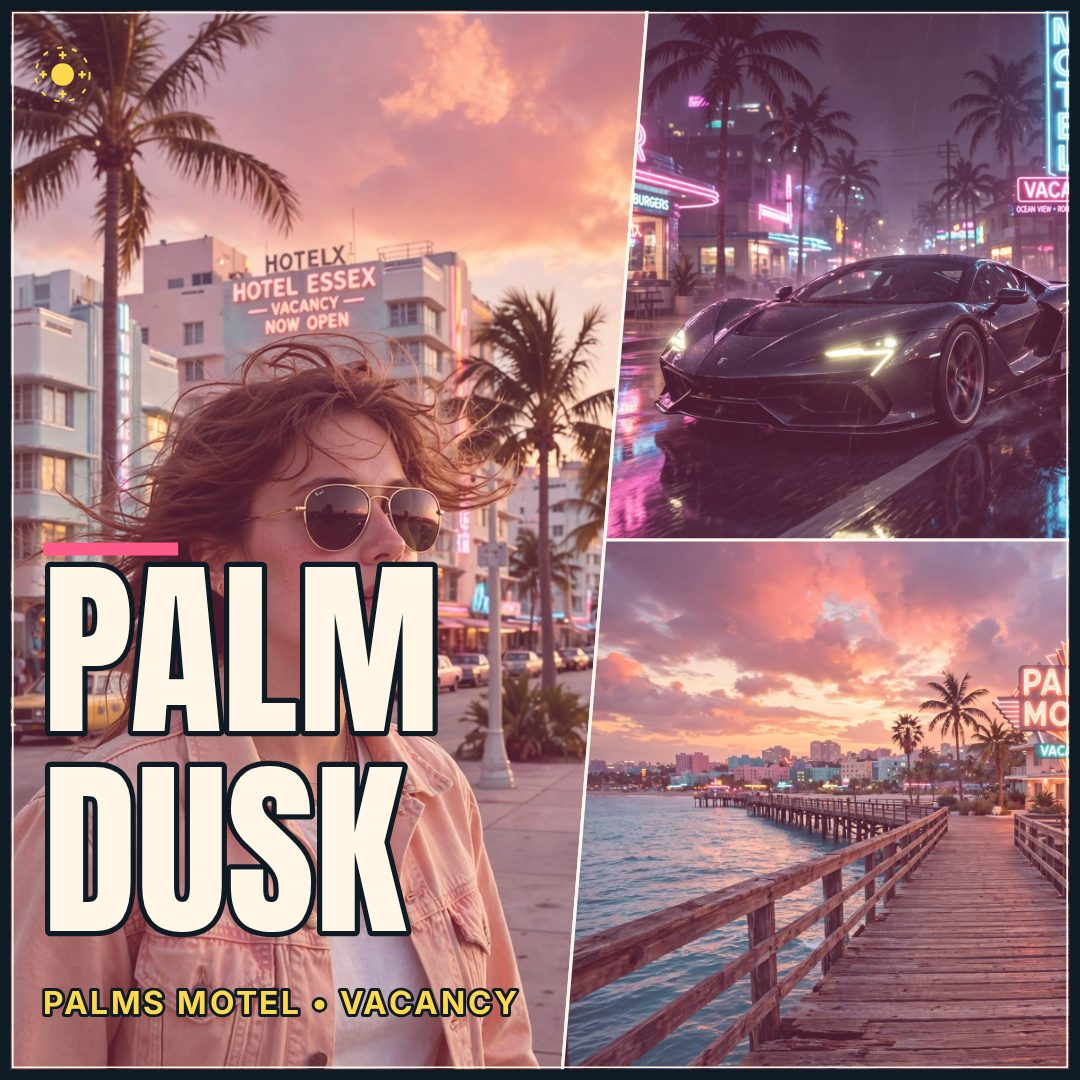
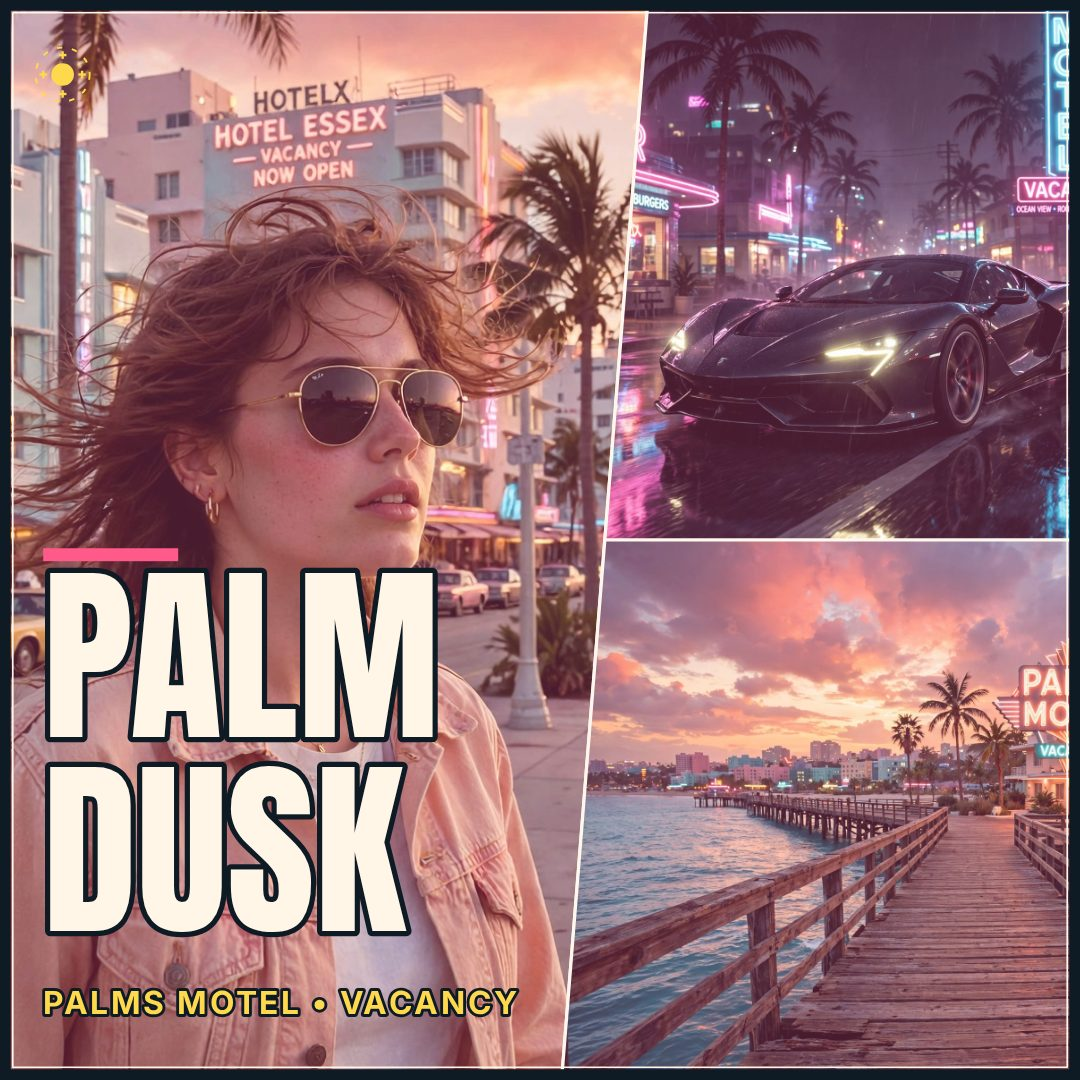
Sunset Press v8 iter 4-5: fix critic FAILs (navy topbar, LAYOUT 3+1, hero face clear)
- Topbar navy + orange sun mark (golden); rail 220px; LAYOUT 3-col grid
- Caption lineH 1.05 -> 1.02 (first line -5px to golden)
- Boulevard hero: zoom 1.2 + focal y 0.60 (focal-y alone is a no-op:
  hero dh == bh so dy clamps to 0; zoom creates the vertical slack)
- Boulevard photo restored from image-tool snapshot (first framing)
- Probe 14/14, 4 screenshots legal, badge 3-run all sizes

diff --git a/app/style.css b/app/style.css
@@ -52,7 +52,7 @@ button { font-family: inherit; cursor: pointer; }
   display: flex;
   align-items: center;
   justify-content: space-between;
-  background: var(--paper);
+  background: var(--panel-dark);
   border-bottom: 2px solid var(--ink);
   padding: 10px 18px;
   flex: none;
@@ -60,16 +60,16 @@ button { font-family: inherit; cursor: pointer; }
 .brand { display: flex; align-items: center; gap: 12px; }
 .brand-mark {
   width: 40px; height: 40px; flex: none;
-  background: var(--sun); color: var(--ink);
-  border: 2px solid var(--ink); border-radius: 50%;
+  background: transparent; color: var(--orange);
+  border: none; border-radius: 50%;
   display: flex; align-items: center; justify-content: center;
-  font-size: 22px;
+  font-size: 32px;
 }
 .brand-text { display: flex; flex-direction: column; line-height: 1.15; }
-.brand-text strong { font-family: 'Anton', sans-serif; font-size: 22px; letter-spacing: 0.04em; }
-.brand-sub { font-size: 13px; color: var(--muted); }
+.brand-text strong { font-family: 'Anton', sans-serif; font-size: 22px; letter-spacing: 0.04em; color: var(--paper); }
+.brand-sub { font-size: 13px; color: rgba(255, 246, 232, 0.65); }
 .topbar-right { display: flex; align-items: center; }
-.size-label { font-size: 13px; color: var(--muted); margin-right: 95px; white-space: nowrap; }
+.size-label { font-size: 13px; color: rgba(255, 246, 232, 0.65); margin-right: 95px; white-space: nowrap; }
 .btn-export {
   background: var(--orange); color: #fff;
   border: 2px solid var(--ink); border-radius: 8px;
@@ -84,7 +84,7 @@ button { font-family: inherit; cursor: pointer; }
 .workspace {
   flex: 1;
   display: grid;
-  grid-template-columns: 240px minmax(0, 1fr) 320px;
+  grid-template-columns: 220px minmax(0, 1fr) 320px;
   gap: 0;
   min-height: 0;
 }
@@ -173,6 +173,9 @@ button { font-family: inherit; cursor: pointer; }
 .sample-card.active { border-color: var(--orange); box-shadow: 0 0 0 1px var(--orange); }
 
 .chip-grid { display: grid; grid-template-columns: 1fr 1fr; gap: 8px; }
+.chip-grid-3 { grid-template-columns: repeat(3, 1fr); }
+.chip-grid-3 .chip { font-size: 11.5px; padding: 10px 4px; }
+.chip-grid-3 .chip.half { grid-column: auto; }
 .chip {
   background: #fff; border: 2px solid var(--border); border-radius: 8px;
   padding: 10px 8px; font-size: 12.5px; font-weight: 700; min-height: 44px;

diff --git a/app/src/presets.js b/app/src/presets.js
@@ -68,7 +68,7 @@ export const LAYOUTS = {
 // Sample photos: one Vice City sunset world, four moments.
 // focal is the point the cover-fit keeps centred (0..1 of the photo).
 export const SAMPLES = [
-  { id: 'boulevard', label: 'Boulevard', src: 'samples/boulevard.jpg', focal: { x: 0.5, y: 0.35 }, zoom: 1.0 },
+  { id: 'boulevard', label: 'Boulevard', src: 'samples/boulevard.jpg', focal: { x: 0.5, y: 0.60 }, zoom: 1.2 },
   { id: 'nightdrive', label: 'Night Drive', src: 'samples/nightdrive.jpg', focal: { x: 0.48, y: 0.5 }, zoom: 1.06 },
   { id: 'pier', label: 'Pier', src: 'samples/pier.jpg', focal: { x: 0.0, y: 0.424 }, zoom: 1.06 },
   { id: 'street', label: 'Street', src: 'samples/street.jpg', focal: { x: 0.5, y: 0.5 }, zoom: 1.0 },

diff --git a/app/index.html b/app/index.html
@@ -77,7 +77,7 @@
       </div>
       <div class="section">
         <h3>Layout</h3>
-        <div class="chip-grid">
+        <div class="chip-grid chip-grid-3">
           <button class="chip" data-layout="trio" type="button">Sunset Trio</button>
           <button class="chip" data-layout="duo" type="button">Split Duo</button>
           <button class="chip" data-layout="strip" type="button">Hero Strip</button>

diff --git a/app/src/render.js b/app/src/render.js
@@ -128,7 +128,7 @@ function drawCaptionBlock(ctx, W, H, size, state, debug) {
   const x = CAPTION.captionX * W;
 
   const fit = fitCaption(ctx, state.caption || 'SUNSET DRIVE', nominal, maxW);
-  const lineH = fit.size * 1.05;
+  const lineH = fit.size * 1.02;
   const lastBaseline = subBaseline - capGap;
   const firstBaseline = lastBaseline - (fit.lines.length - 1) * lineH;
   debug.captionLines = fit.lines;

diff --git a/app/src/app.js b/app/src/app.js
@@ -16,7 +16,7 @@ const state = {
   size: 'wide',
   layout: 'trio',
   panels: [
-    { imageKey: null, focal: { x: 0.5, y: 0.35 }, zoom: 1.0 },
+    { imageKey: null, focal: { x: 0.5, y: 0.60 }, zoom: 1.2 },
     { imageKey: null, focal: { x: 0.48, y: 0.5 }, zoom: 1.06 },
     { imageKey: null, focal: { x: 0.0, y: 0.424 }, zoom: 1.06 },
   ],
